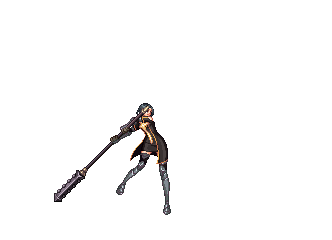
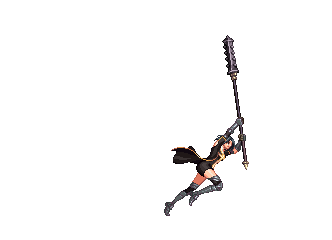
delay 해제 및 스프라이트, 캐릭터 이동 수정

Changed region(s): [[0.3012, 0.1458, 0.753, 0.9042], [0.1506, 0.6417, 0.3012, 0.8458]]

diff --git a/spriteManager.py b/spriteManager.py
@@ -8,7 +8,7 @@ class SpriteManager:
         self.player2_state = 'Idle'
         self.player1_frame = 0
         self.player2_frame = 0
-        self.frame_time = 0.1  # 프레임 전환 시간
+        self.frame_time = 0.5  # 프레임 전환 시간을 0.5초로 설정
         self.frame_timer = 0.0  # 프레임 타이머
         self.player2_frame_timer = 0.0  # 플레이어2용 프레임 타이머
         self.player1_x = 400
@@ -36,7 +36,7 @@ class SpriteManager:
             'fastMiddleATK': [pico2d.load_image(str(base_path / 'priest' / 'fastMiddleATK' / f'{i}.png')) for i in range(6)],
             'strongMiddleATK': [pico2d.load_image(str(base_path / 'priest' / 'strongMiddleATK' / f'{i}.png')) for i in range(6)],
             'strongMiddleATK2': [pico2d.load_image(str(base_path / 'priest' / 'strongMiddleATK' / f'{i}.png')) for i in range(6, 14)],
-            'strongUpperATK': [pico2d.load_image(str(base_path / 'priest' / 'strongUpperATK' / f'{i}.png')) for i in range(12)],
+            'strongUpperATK': [pico2d.load_image(str(base_path / 'priest' / 'strongUpperATK' / f'{i}.png')) for i in range(13)],
             'strongLowerATK': [pico2d.load_image(str(base_path / 'priest' / 'strongLowerATK' / f'{i}.png')) for i in range(9)]
         }
 
@@ -47,7 +47,7 @@ class SpriteManager:
             self.player1_frame = 0
             self.frame_timer = 0.0
 
-        # 프레임 애니메이션 업데이트
+        # 프레임 애니메이션 업데이트 (deltaTime 사용하되 0.5초마다 프레임 전환)
         self.frame_timer += deltaTime
         if self.frame_timer >= self.frame_time:
             self.frame_timer = 0.0
@@ -108,7 +108,7 @@ class SpriteManager:
             self.player2_frame = 0
             self.player2_frame_timer = 0.0
 
-        # 프레임 애니메이션 업데이트
+        # 프레임 애니메이션 업데이트 (deltaTime 사용하되 0.5초마다 프레임 전환)
         self.player2_frame_timer += deltaTime
         if self.player2_frame_timer >= self.frame_time:
             self.player2_frame_timer = 0.0

diff --git a/Player/playerRight.py b/Player/playerRight.py
@@ -43,10 +43,10 @@ class PlayerRight(Player):
         # 공격 중이 아닐 때만 이동 처리
         if not self.is_attacking:
             if move_input == 'left':
-                self.x -= 3
+                self.x -= 1
                 self.state = 'Walk'  # 왼쪽으로 갈 때 Walk
             elif move_input == 'right':
-                self.x += 1
+                self.x += 0.5
                 self.state = 'BackWalk'  # 오른쪽으로 갈 때 BackWalk
             else:
                 self.state = 'Idle'  # 입력이 없으면 Idle 상태

diff --git a/Player/playerLeft.py b/Player/playerLeft.py
@@ -44,10 +44,10 @@ class PlayerLeft(Player):
         # 공격 중이 아닐 때만 이동 처리
         if not self.is_attacking:
             if move_input == 'left':
-                self.x -= 1
+                self.x -= 0.5
                 self.state = 'BackWalk'  # 왼쪽으로 갈 때 BackWalk
             elif move_input == 'right':
-                self.x += 3
+                self.x += 1
                 self.state = 'Walk'  # 오른쪽으로 갈 때 Walk
             else:
                 self.state = 'Idle'  # 입력이 없으면 Idle 상태

diff --git a/Config.py b/Config.py
@@ -3,6 +3,6 @@ import pathlib
 global windowWidth
 global windowHeight
 
-windowWidth = 1920
-windowHeight = 1080
+windowWidth = 1280
+windowHeight = 720
 

diff --git a/game.py b/game.py
@@ -66,5 +66,4 @@ class Game:
     def run(self):
         self.update(deltaTime=0.01)
         self.render()
-        pico2d.delay(0.01)
         pass
